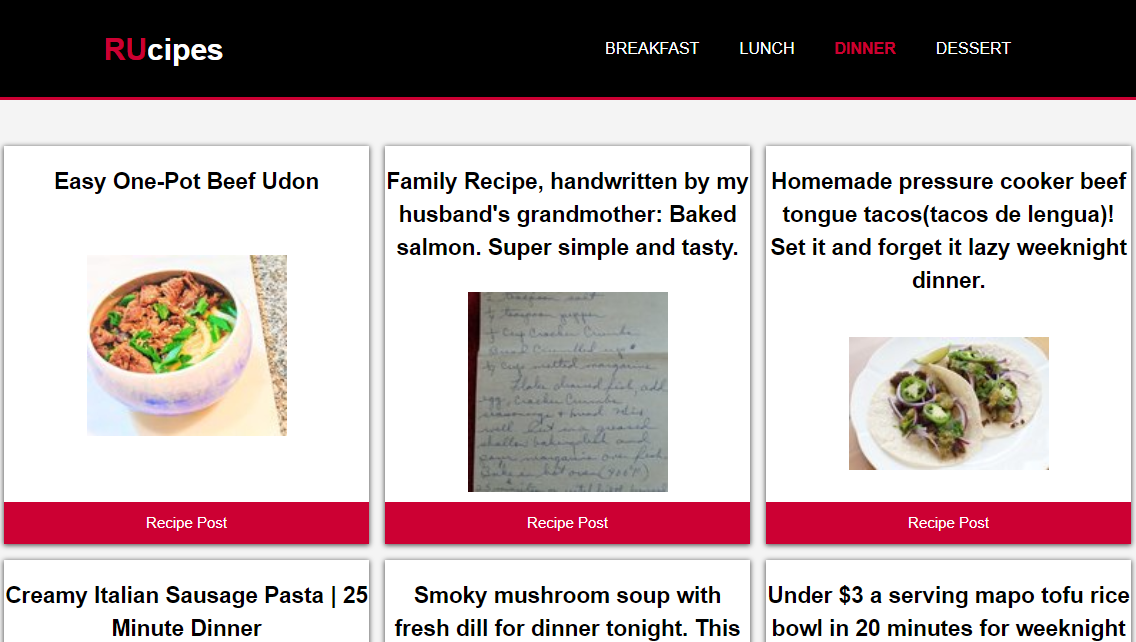
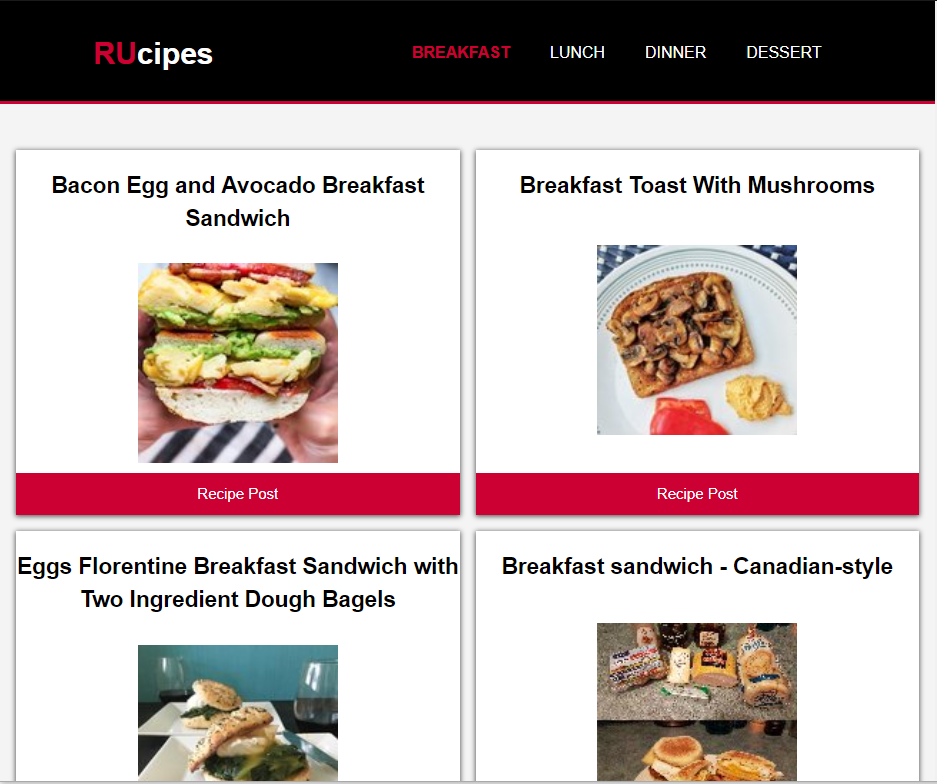
projects

diff --git a/src/components/CustomNavbar.js b/src/components/CustomNavbar.js
@@ -9,7 +9,7 @@ const CustomNavbar = () => {
       <NavItem><Link to="/">Home</Link></NavItem>
       <NavItem><Link to="/about">About</Link></NavItem>
       <NavItem><Link to="/projects">Projects</Link></NavItem>
-      <NavItem href="https://drive.google.com/file/d/1KRw2zBcTCNZSLANzrJYnuGhP6ouFmbC2/view?usp=sharing"><a href="https://drive.google.com/file/d/1KRw2zBcTCNZSLANzrJYnuGhP6ouFmbC2/view?usp=sharing" target="_blank" rel="noopener noreferrer">Résumé</a></NavItem>
+      <NavItem href="https://drive.google.com/file/d/1KRw2zBcTCNZSLANzrJYnuGhP6ouFmbC2/view?usp=sharing"><a href="https://drive.google.com/file/d/1KRw2zBcTCNZSLANzrJYnuGhP6ouFmbC2/view?usp=sharing" target="_blank" rel="noopener noreferrer">Resume</a></NavItem>
       <NavItem><Link to="/resources">Resources</Link></NavItem>
     </Navbar>
   );

diff --git a/src/App.css b/src/App.css
@@ -12,6 +12,7 @@
   --color-svg: 255, 255, 255;
   --shadow: 0 1px 5px rgba(104, 104, 104, 0.8);
   --hover: #26a69a;
+  --card-title: 0, 0, 0;
 }
 
 .dark-theme {
@@ -28,6 +29,7 @@
   --color-svg: 48, 180, 236;
   --shadow: 0 1px 5px rgba(9, 8, 8, 0.8);
   --hover: black;
+  --card-title: 48, 180, 236;
 }
 
 * {
@@ -264,7 +266,7 @@ i.material-icons {
 }
 
 .card .card-image .card-title {
-  color: rgb(var(--color-text));
+  color: rgb(var(--card-title));
   font-weight: bolder;
   position: absolute;
   bottom: 0;
@@ -293,6 +295,10 @@ i.material-icons {
   margin-left: auto;
   margin-right: auto;
   font-size: 2rem;
+}
+
+.card .card-image img {
+  filter: brightness(60%);
 }
 
 

diff --git a/src/components/Projects.js b/src/components/Projects.js
@@ -69,10 +69,10 @@ const Projects = () => {
         </div>
         <div className="box-projects">
           <Card className='small'
-            header={<CardTitle image="assets/rucipes.PNG">RUcipes</CardTitle>}
+            header={<CardTitle image="assets/rucipes.PNG">RUcipes - RedditAPI</CardTitle>}
             actions={[<a href='https://ericdleon.github.io/RUcipes/' target="_blank" rel="noopener noreferrer"><i className="fab fa-github" /></a>]}>
             <div className="box-text">
-            Web Design Project | May 2019
+            Web Design AJAX Project | May 2019
             </div>
           </Card>
         </div>

diff --git a/src/components/Home.js b/src/components/Home.js
@@ -39,7 +39,7 @@ const Home = () => {
         <Link to="/projects" className="btn btn-large">Here</Link>
       </div>
       <div className="top-box bottom-box-a">
-        <h4>Résumé</h4>
+        <h4>Resume</h4>
         <Icon>picture_as_pdf</Icon>
         <a href="https://drive.google.com/file/d/1KRw2zBcTCNZSLANzrJYnuGhP6ouFmbC2/view?usp=sharing" target="_blank" rel="noopener noreferrer" className="btn btn-large">Here</a>
       </div>

diff --git a/src/components/About.js b/src/components/About.js
@@ -59,6 +59,10 @@ const About = () => {
             skill="Command Line"
             progress="95"
             />
+            <Skills
+            skill="MySQL"
+            progress="80"
+            />
         </div>
       </section>
 
